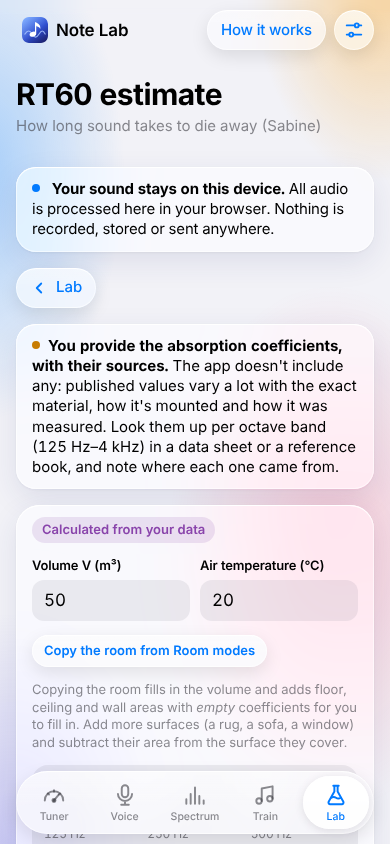
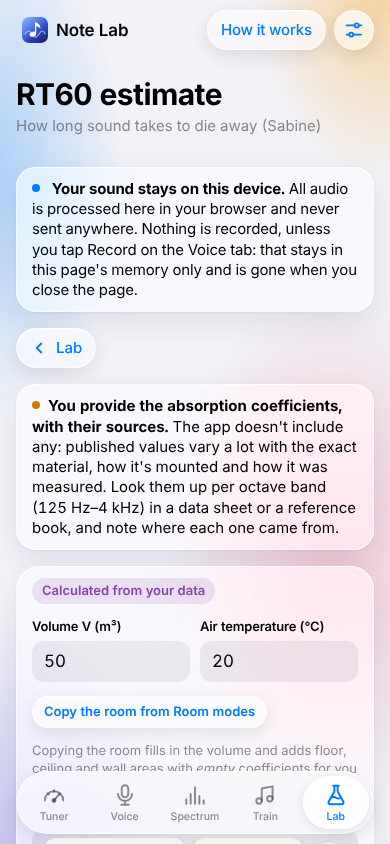
Document the pitch monitor; refresh screenshots
Claude-Session: https://claude.ai/code/session_01SxLsZFKHC9uUtv3xK6kA73

diff --git a/README.md b/README.md
@@ -8,20 +8,28 @@ learning about EQ), ear training, and a beginner's guide. It works offline and
 can be installed on an iPhone home screen.
 
 **Privacy:** all audio processing happens on your device, in the browser.
-Microphone audio is never recorded, stored, uploaded or sent anywhere. There is
+Microphone audio is never stored on your device, uploaded or sent anywhere. The
+one exception you control: **Record** on the Voice tab keeps a recording in the
+page's memory (never saved, never uploaded) so you can listen back, and it is
+gone when you tap Delete, stop the microphone or close the page. Audio files
+you choose to analyse are read inside the page, never uploaded. There is
 no server, no account and no tracking. Only your settings and training scores
 are saved, in your own browser.
 
-> **Status:** all 6 phases and the 8 Acoustics Lab tools are built and tested
-> in desktop Chromium: pitch maths, tuner, voice mode, spectrum, ear training,
+> **Status:** all 6 phases, the pitch monitor (Voice tab) and the 9 Acoustics Lab tools are built and tested
+> in desktop Chromium: pitch maths, tuner, voice mode / pitch monitor, spectrum, ear training,
 > offline / settings / guide, and the Lab (waveform, harmonics, beats,
 > spectrogram, pipes and strings, room modes, RT60, compare with reality). **Not yet tested on a real iPhone, and not yet measured on
 > real recordings.** See [Desktop vs iPhone](#desktop-vs-iphone) and
 > [Measured accuracy](#measured-accuracy).
 
-| Tuner | Voice mode | Spectrum |
+| Tuner | Pitch monitor (Voice) | Spectrum |
 |---|---|---|
-| <img src="docs/screenshots/tuner.png" alt="Tuner screenshot" width="240"> | <img src="docs/screenshots/voice.png" alt="Voice mode screenshot" width="240"> | <img src="docs/screenshots/spectrum.png" alt="Spectrum screenshot" width="240"> |
+| <img src="docs/screenshots/tuner.png" alt="Tuner screenshot" width="240"> | <img src="docs/screenshots/monitor.png" alt="Pitch monitor screenshot" width="240"> | <img src="docs/screenshots/spectrum.png" alt="Spectrum screenshot" width="240"> |
+
+| Monitor, full screen | Monitor, an audio file |
+|---|---|
+| <img src="docs/screenshots/monitor-full.png" alt="Pitch monitor in full screen" width="240"> | <img src="docs/screenshots/monitor-file.png" alt="Pitch monitor showing an analysed file" width="240"> |
 
 | Ear training (sing-back) | Settings |
 |---|---|
@@ -77,25 +85,152 @@ Note Lab uses the same **Liquid Glass** theme as the other web apps:
    **No clear note** instead of guessing.
 4. For a bass or other very low instrument, choose **Instrument range → Low**.
 
-### Voice mode
+### Voice mode: the pitch monitor
 
-Tap the **Voice** tab (before or after starting). You'll see:
+The Voice tab is a **pitch monitor**, modelled on the features of the
+VocalPitchMonitor app (a scrolling pitch graph on a musical scale, scale
+lines, reference notes, recording and playback, file analysis, and a range
+test). It's this app's own code; nothing is taken from that app.
 
-- **The current pitch**, e.g. `G2 · 98.0 Hz · −3 cents`, or **No clear pitch**
-  with the reason: *too quiet* (below the volume threshold) or *breath, noise
-  or a consonant* (loud enough, but not clearly pitched).
-- **Clarity**: the detector's confidence that the sound is pitched (0–100%).
-- **A scrolling pitch graph** of the last 8 seconds. It has a horizontal line
-  for every note and labels for the Cs (or every natural note when there's
-  room). The line is the smoothed pitch. Faint dots are raw readings, so you
-  can see what the smoothing removes.
-- **Range finder**: sing your lowest comfortable note and hold it for about
-  half a second, then your highest. It records the lowest and highest notes
-  you held steady and the range between them, e.g. "1 octave + 7 semitones".
-  Results stay in the page only and are cleared when you close it.
-- **Voice settings** (summary line, plus a button to open them on the
-  Settings page): detection range (Low / Mid / High / Custom), volume
-  threshold, and smoothing (Fast ↔ Steady). All are explained below.
+**The graph** (`js/monitor-graph.js`, maths in `js/monitor-window.js`)
+
+- A piano keyboard runs up the left side; each row is one semitone, so
+  every semitone (and every octave) is the same height. Time runs left to
+  right; the right edge is "now".
+- The line is your smoothed pitch, **coloured by note** (C red, then round the
+  colour wheel; can be turned off). Gaps mean no clear pitch. Optional faint
+  dots show raw readings before smoothing.
+- It covers C1–B7. While live, it scrolls up or down by itself to keep your
+  newest note on screen.
+- **Drag** to scroll (up/down = notes, left/right = back in time). **Pinch**
+  to zoom (horizontal pinch = seconds, vertical = notes), or use the
+  Notes −/+ and Time −/+ buttons. **Double-tap** to go back to live.
+  **Pause** freezes it; **Full screen** fills the window (on iPhone too,
+  where web pages can't use the real full-screen mode).
+- The last **5 minutes** of the line are kept while the page is open, as
+  numbers (time, pitch), not sound. **Clear** wipes them.
+
+**Key and scale lines** (`js/scales.js`)
+
+- Choose a key and a scale: major, natural minor, harmonic minor, major
+  pentatonic, minor pentatonic, or chromatic. The scale's rows are shaded and
+  its home note (tonic) is orange.
+- Scales are the standard textbook steps in semitones from the tonic:
+  major 0 2 4 5 7 9 11, natural minor 0 2 3 5 7 8 10, harmonic minor
+  0 2 3 5 7 8 11, major pentatonic 0 2 4 7 9, minor pentatonic 0 3 5 7 10.
+  *Worked example:* G major = G + (0 2 4 5 7 9 11) = G A B C D E F♯.
+  Source: any music-theory primer, e.g. E. Taylor, *The AB Guide to Music
+  Theory*, Part I (ABRSM, 1989).
+- **Find the key of what I've sung** runs the Key finder's method
+  (Krumhansl–Schmuckler, see [9. Key finder](#9-key-finder)) on the pitch
+  line, needs at least 8 s of clear singing, and sets the scale lines to the
+  answer. In the browser test it found G major from 13 s of the generated
+  "Twinkle Twinkle" in G (r = 0.80 vs 0.61 for the runner-up).
+
+**Reference notes**
+
+- **Tap a piano key** to hear that note (a generated tone, A4 as set in Settings).
+- **Drone**: holds one note (the key's tonic, or any note) in octave 2–5
+  until you stop it. Use **headphones**: through a speaker, the microphone
+  hears the drone too, and the pitch line may follow it instead of you.
+
+**Pitch statistics** (`js/pitch-stats.js`, for the line on screen or
+everything kept)
+
+For each reading with a pitch *f*:
+
+- note number **n = 69 + 12 · log₂(f / A4)** (the same formula as the tuner),
+- **cents = 100 · (n − target)**, where *target* is the nearest note, or,
+  with a key chosen, the nearest note **of that scale** (so a wrong note
+  counts as far off).
+
+Each reading counts for the time until the next reading (at most 0.1 s, so a
+pause in readings doesn't count as singing). Shown: the share of singing
+time within **±10** and **±25 cents**, the **average offset** (+ sharp,
+− flat; +20 and −20 average to 0), the **average distance** (ignoring
+direction; +20 and −20 average to 20), the lowest and highest notes, and the
+most-sung note.
+
+*Worked example:* A4 = 440 Hz, you sing 445.1 Hz. n = 69 + 12 · log₂(445.1/440)
+= 69.20, nearest note 69 (A4), cents = +20. That counts within ±25 but not
+±10. The ±10/±25 bands are **this app's own choice** for a quick summary,
+not a standard. The statistics are only as good as the detection (see
+[Limitations](#limitations)).
+
+**Record and play back** (`js/recorder.js`), **memory only**
+
+- Nothing records until you tap **Record** (up to 5 minutes). The recording
+  is kept in the page's memory: never saved to the device, never uploaded,
+  and there's no save or share button. It's gone when you tap **Delete**,
+  record again, **stop the microphone**, or close the page.
+- **Play** plays it back while the graph shows the recording's pitch line
+  with a red playhead, and the big note readout shows the note at the playhead.
+  Live readings are paused during playback, so the replay coming out of the
+  speaker doesn't get into your live line.
+- Uses the browser's MediaRecorder (Safari: MP4/AAC; Chrome, Firefox: WebM/Opus).
+
+**Analyse an audio file** (`js/file-analysis.js`)
+
+- Pick a file on the device (MP3, M4A, WAV…). It's decoded and analysed in
+  the page with the **same pipeline and voice settings as live**, at 60
+  readings a second, then shown like a recording (Play, scroll, statistics,
+  find the key). It works without the microphone and is never uploaded.
+- Speed, measured with Node on the development machine: 77–94 ms of work per
+  second of audio, so a 3-minute file takes about 15–20 s (a phone may be
+  slower). Limit: 10 minutes.
+- Measured in the browser test: the generated sung glide C3→C4 had clear
+  pitch 98% of the time; the generated D-minor band (chords, bass, drums) only
+  8%, and the page says "mostly no clear pitch", which is correct: this
+  is a single-pitch detector (see [Limitations](#limitations)).
+
+**Range finder, range test and voice type** (`js/range-finder.js`, `js/voice-types.js`)
+
+- The range finder keeps the lowest and highest notes you held steady for
+  0.3 s (within 70 cents), as before.
+- **Range test** guides you: step 1, slide down to your lowest comfortable
+  note; step 2, slide up to your highest. Each step has its own finder, so
+  warming up doesn't affect the other step.
+- **Voice type** (only for a range of at least 7 semitones): the typical range
+  that shares the most semitones with yours (on a tie, the one whose middle is
+  nearest yours). Typical ranges used, from the Wikipedia articles "Voice
+  type", "Soprano", "Mezzo-soprano", "Contralto", "Tenor", "Baritone" and
+  "Bass (voice type)": bass E2–E4, baritone A2–A4, tenor C3–C5, contralto
+  F3–F5, mezzo-soprano A3–A5, soprano C4–C6. **Please verify these**, since
+  sources differ by a note or two. *Worked example:* G2–G4 shares 21
+  semitones with bass, 22 with baritone and 19 with tenor → "Baritone". Voice
+  teachers also judge comfort (tessitura), tone and register changes, so the
+  app calls this "a rough guide, not a diagnosis".
+
+**Voice settings** (summary line, plus a button to open them on the Settings
+page): detection range (Low / Mid / High / Custom), volume threshold, and
+smoothing (Fast ↔ Steady). These are explained below and apply to the monitor
+and to file analysis.
+
+**How to test it**
+
+1. Voice tab → Start listening → sing a slow scale. The line should follow
+   you in colour, and the keyboard key you're on should light up.
+2. Drag the graph back in time and up/down; pinch; double-tap to return.
+   Try Full screen, and turn the phone sideways.
+3. Choose C major and sing C D E F G: the line should sit on shaded rows.
+   Sing an F♯: it lands on an unshaded row and the ±10/±25 numbers drop.
+4. Sing a familiar tune for 20–30 s → *Find the key of what I've sung*.
+5. Tap a few piano keys; start the drone with headphones and sing against it.
+6. Record 10 s, Play: you should hear yourself and see the playhead move
+   along your line. Stop listening: the recording must disappear.
+7. Analyse a voice memo from the phone's Files.
+8. Range test: follow the two steps and check the result and voice-type text.
+
+**Assumptions and limitations**
+
+- Everything the detector can't do (chords, songs with a band, breathy or
+  creaky voice, octave errors) also applies here, including to files.
+- The voice-type guide is a range comparison only, with ranges you should verify.
+- During playback the live microphone isn't added to the line.
+- The drone and tapped notes come out of the speaker; without headphones the
+  microphone hears them.
+- Recording format and file types depend on the browser; iPhone not tested yet.
+- Pinch zoom uses the browser's touch events; untested on a real iPhone.
 
 ### Spectrum
 
@@ -825,6 +960,15 @@ generated signals, it still needs checking on real recordings.
 - **Offline** works only after one online visit, and only in a browser that
   supports service workers (current Safari, Chrome, Firefox, Edge).
 - **Accuracy numbers** are from generated signals only, so far.
+- **Pitch monitor statistics** inherit every detection error above. The ±10 and
+  ±25 cent bands are this app's choice, not a standard.
+- **Voice type** is a range comparison against typical ranges (from Wikipedia,
+  to be verified), not a classification.
+- **Recording** is in memory only and is lost when the page closes or the
+  microphone stops; that's deliberate (privacy), not a bug.
+- **File analysis** is single-pitch like everything else: songs with a band show
+  mostly "no clear pitch". Long files take a while (about 15–20 s for 3 minutes
+  on a laptop; a phone may be slower).
 
 ## Desktop vs iPhone
 
@@ -863,6 +1007,15 @@ Things to check on iPhone (please report back):
 15. Lab → Beats with headphones and "one tone per ear": do you hear left/right
     separation? Lab → Room modes → Play: can you hear the low modes at all on the
     phone speaker? (Probably not below ~100 Hz; that's expected.)
+16. **Voice tab (pitch monitor):** drag, pinch and double-tap the graph. Does the
+    page stay still while you do? Is Full screen usable, also sideways?
+17. Record 10 s → Play. Do you hear it, and does the playhead move? Does it
+    record at all (iPhone needs iOS 14.3+)? Then Stop listening: the
+    recording should be gone.
+18. Analyse a file: choose a Voice Memo (M4A) from Files. Does it open, and
+    how long does a 1-minute memo take?
+19. Drone with and without headphones: without them, does the line follow the
+    drone instead of you?
 
 ## Running the tests
 
@@ -870,6 +1023,7 @@ Needs [Node.js](https://nodejs.org) 18 or newer. There are no packages to instal
 
 ```sh
 npm test               # unit tests: pitch maths, YIN, smoothing, dB level, ranges, FFT/spectrum, ear training, settings, offline file list,
+                       # pitch monitor maths (scales, statistics, history, zoom/scroll, voice types, file analysis),
                        # range finder (incl. full pipeline on generated files), WAV files
 npm run table          # note/frequency table for checking by hand
 npm run make-signals   # regenerate the test WAV files (identical every time)
@@ -894,6 +1048,9 @@ js/pitch-math.js                 ★ frequency ↔ note maths (start here)
 js/yin.js, js/smoothing.js, js/level.js, js/pitch-tracker.js   pitch detection pipeline
 js/fft.js, js/spectrum.js        spectrum maths
 js/voice-ranges.js, js/range-finder.js, js/ear-training.js, js/settings.js   other logic
+js/scales.js, js/pitch-stats.js, js/pitch-history.js, js/monitor-window.js, js/voice-types.js,
+js/file-analysis.js              pitch monitor maths (tests/monitor-maths.test.js)
+js/monitor-graph.js, js/monitor-view.js, js/recorder.js   the pitch monitor's page code
 js/acoustics.js                  ★ all Acoustics Lab maths (with sources; tests/acoustics.test.js)
 js/lab/                          the eight Lab tools' pages, plus the Lab menu
 js/*-view.js, js/app.js, …       page code (what you see and tap)
@@ -951,5 +1108,14 @@ phase by phase at the owner's direction:
 - When asked to carry out the last phases without stopping, the AI still
   tested and committed each step separately. Everything above about iPhone
   behaviour is a list of things to check, not something that was tested.
+- For the pitch monitor, the AI looked up VocalPitchMonitor's public App
+  Store descriptions to list its features, then wrote its own versions. It
+  didn't copy any of that app's code or images. Recording conflicted with the "never store
+  microphone audio" rule. The owner said to go ahead with everything without
+  choosing an option, so the AI picked the most cautious one: memory only,
+  only after tapping Record, deleted when the mic stops. The voice-type ranges
+  are from Wikipedia and are marked "please verify". The tests caught the AI's
+  own guess about how pausing should count (a 5 s gap must not count as 5 s of
+  singing, hence the 0.1 s cap).
 - The AI can't hear and has no iPhone, so iPhone behaviour and real-world
   accuracy have to be checked by a person.
